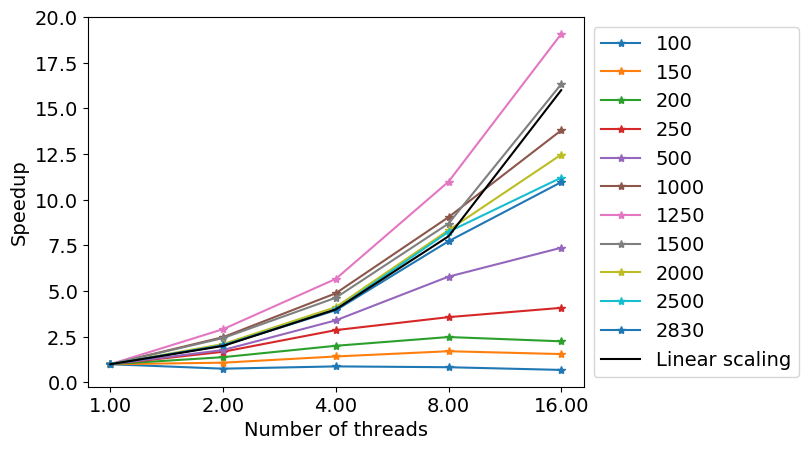
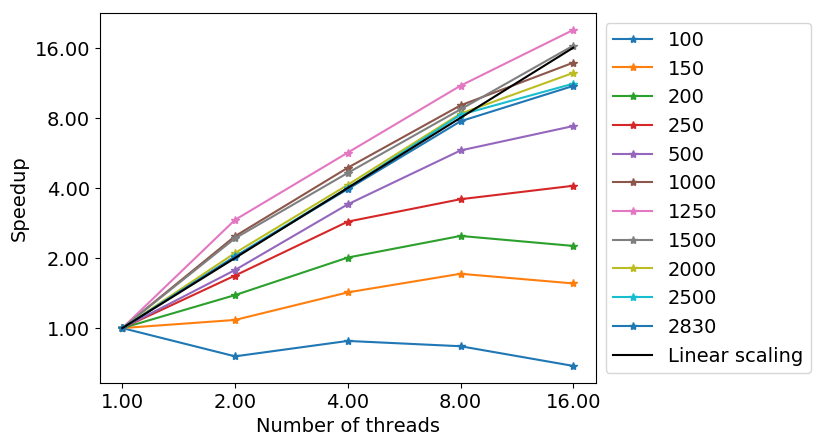
fix speedup plot for nonopt only

Changed region(s): [[0.0, 0.0291, 0.9901, 0.991]]

diff --git a/data/vizfun.py b/data/vizfun.py
@@ -2,7 +2,7 @@ import pandas as pd
 import matplotlib as mpl
 mpl.use('Agg')
 import matplotlib.pyplot as plt
-from matplotlib.ticker import ScalarFormatter
+from matplotlib.ticker import ScalarFormatter, FormatStrFormatter
 import numpy as np
 
 font = {'size'   : 14}
@@ -80,11 +80,11 @@ for files, names in zip(['statfun_poisson_naive.dat','statfun_poisson_openmp1.da
 	plt.xlabel('Number of threads')
 	plt.ylabel('Speedup')
 	plt.xscale('log',basex=2)
-	#plt.yscale('log',basey=2)
+	plt.yscale('log',basey=2)
 	ax = plt.gca().xaxis
 	ax.set_major_formatter(ScalarFormatter())
-	#ax = plt.gca().yaxis
-	#ax.set_major_formatter(ScalarFormatter())
+	ax = plt.gca().yaxis
+	ax.set_major_formatter(FormatStrFormatter('%.2f'))
 	plt.savefig('Speedup_%s.png' % names, bbox_inches='tight')
 	plt.close()
 
